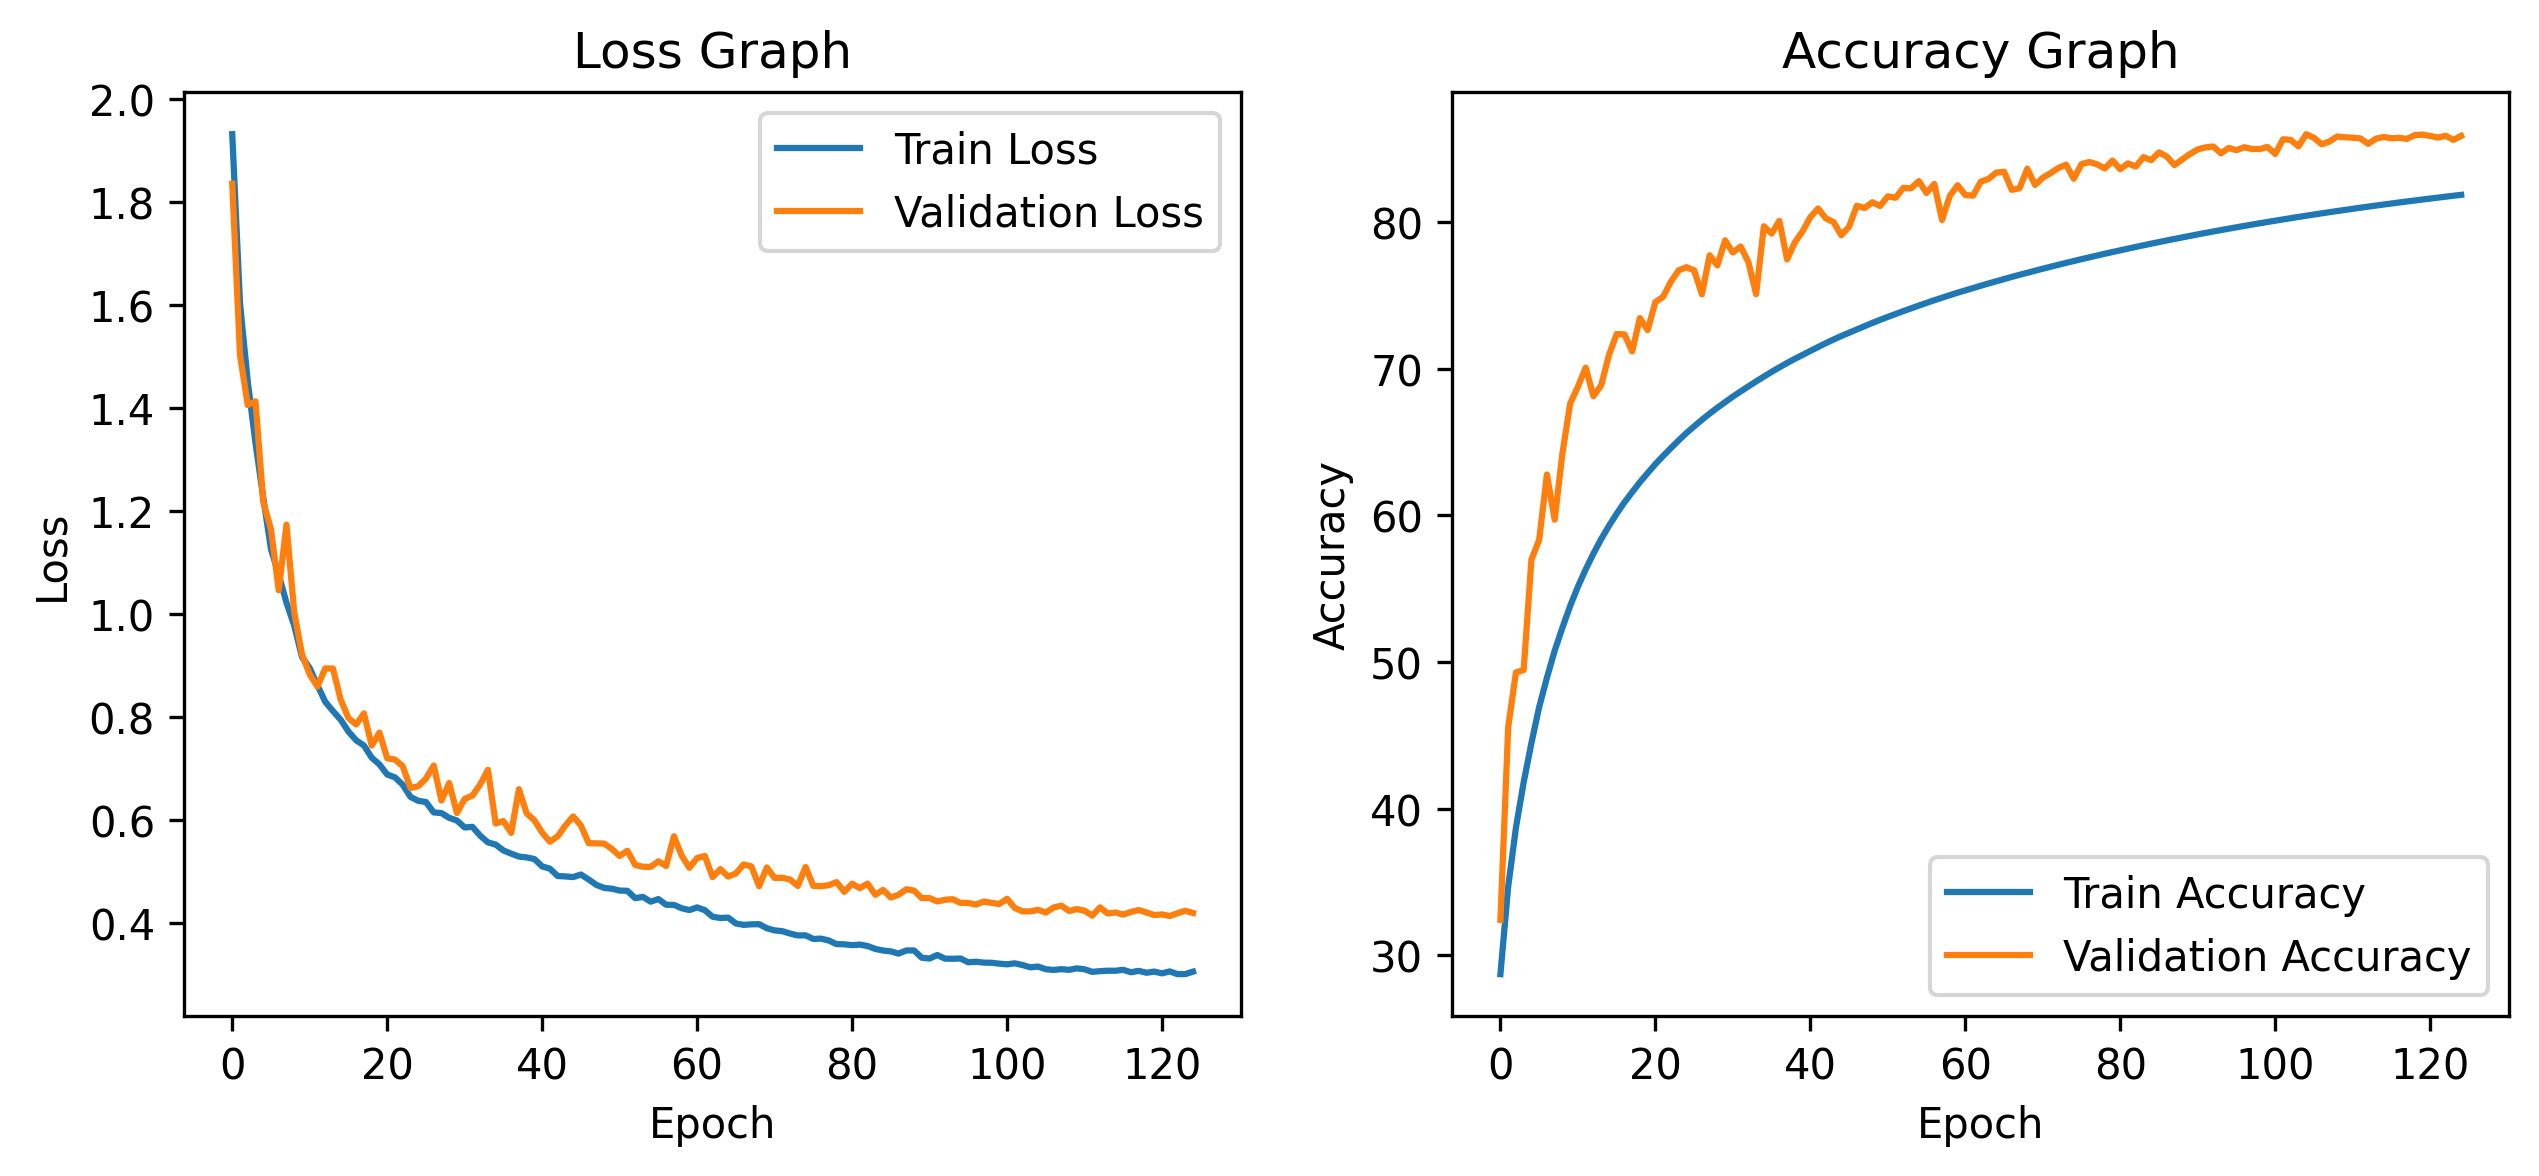
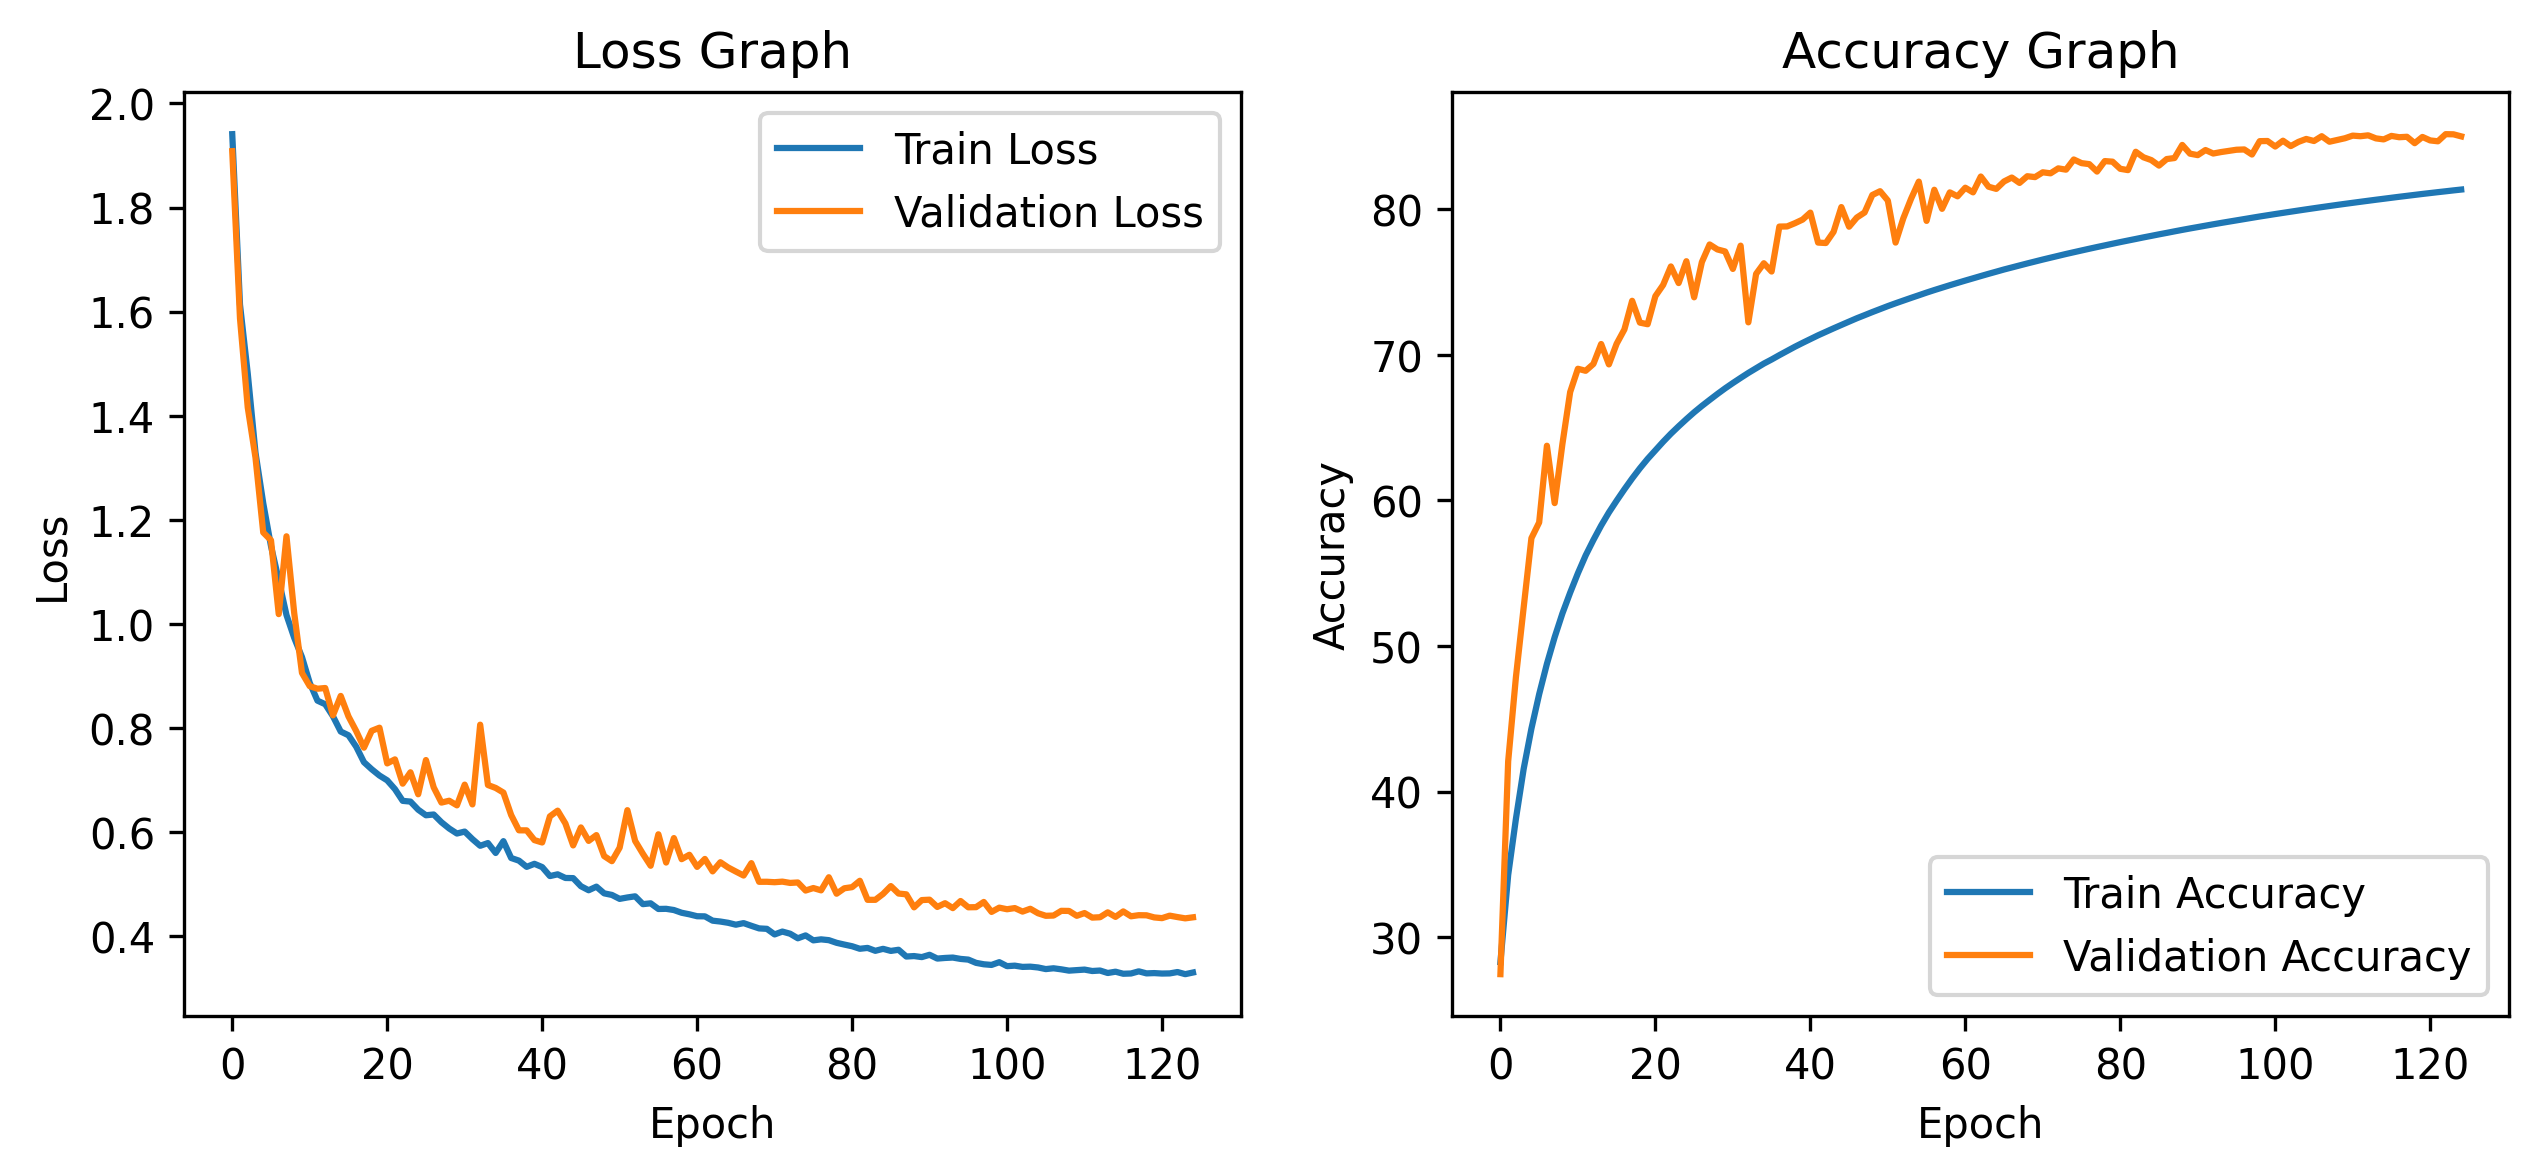
- add grayscale with p = 0.1:     ~ train, val loss and acc roughly the same, but test accuracy = 87.15%

diff --git a/src/NeuralNetwork.py b/src/NeuralNetwork.py
@@ -52,7 +52,7 @@ class NeuralNetwork(nn.Module):
         self.trainTransform = transforms.Compose([
             transforms.RandomHorizontalFlip(),
             transforms.ColorJitter(brightness = 0.2, contrast = 0.2, saturation = 0.2),
-            # transforms.RandomGrayscale(),
+            transforms.RandomGrayscale(0.1),
             transforms.RandomCrop(32, padding=4),
             transforms.ToTensor(),
             transforms.Normalize((0.5, 0.5, 0.5), (0.5, 0.5, 0.5))